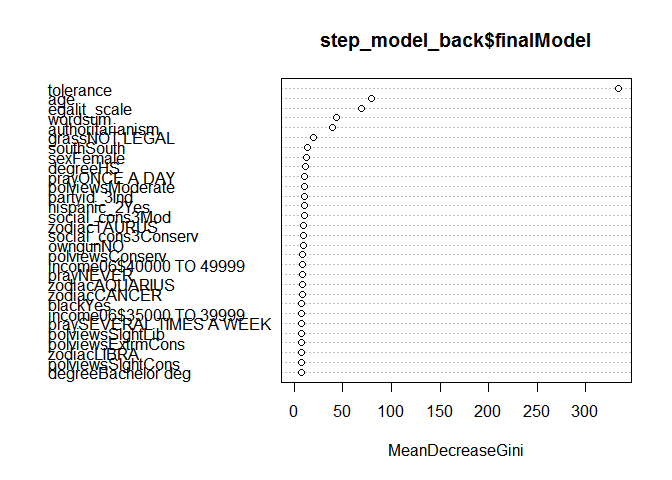
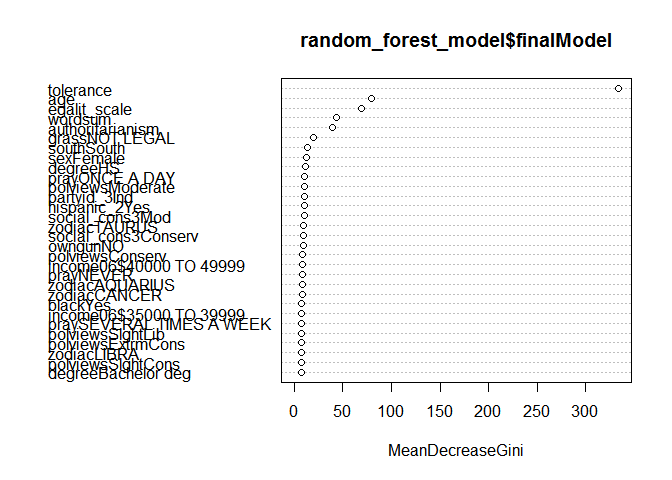
Finishing analysis and README.

Changed region(s): [[0.4375, 0.0625, 0.9375, 0.125]]

diff --git a/scorecard.md b/scorecard.md
@@ -7,65 +7,30 @@ Gustavo Arruda
 
 ``` r
 library(tidyverse)
-```
-
-    ## -- Attaching packages ---------------------------------------------------------------------------- tidyverse 1.3.0 --
-
-    ## v ggplot2 3.3.2     v purrr   0.3.4
-    ## v tibble  3.0.3     v dplyr   1.0.2
-    ## v tidyr   1.1.2     v stringr 1.4.0
-    ## v readr   1.3.1     v forcats 0.5.0
-
-    ## -- Conflicts ------------------------------------------------------------------------------- tidyverse_conflicts() --
-    ## x dplyr::filter() masks stats::filter()
-    ## x dplyr::lag()    masks stats::lag()
-
-``` r
 library(rcfss)
 library(leaps)
-```
-
-    ## Warning: package 'leaps' was built under R version 4.0.3
-
-``` r
 library(caret)
-```
-
-    ## Warning: package 'caret' was built under R version 4.0.3
-
-    ## Loading required package: lattice
-
-    ## 
-    ## Attaching package: 'caret'
-
-    ## The following object is masked from 'package:purrr':
-    ## 
-    ##     lift
-
-``` r
 library(ggplot2)
 library(knitr)
 library(broom)
 set.seed(1234)
 ```
 
+## Single Variable Model
+
 ``` r
-scorecard <- data.frame(scorecard)
 ggplot(scorecard, aes(cost, debt)) +
   geom_point() +
   geom_smooth(method = "lm")
 ```
 
-    ## `geom_smooth()` using formula 'y ~ x'
-
-    ## Warning: Removed 113 rows containing non-finite values (stat_smooth).
-
-    ## Warning: Removed 113 rows containing missing values (geom_point).
-
 ![](scorecard_files/figure-gfm/unnamed-chunk-2-1.png)<!-- -->
+
+## Multiple Variables Model
 
 ``` r
 scorecard_num <- select(scorecard, admrate:debt)
+#Limiting the model to numerical variables.
 
 # Source of help:
 #http://www.sthda.com/english/articles/37-model-selection-essentials-in-r/154-stepwise-regression-essentials-in-r/
@@ -74,21 +39,21 @@ scorecard_num <- select(scorecard, admrate:debt)
 train_control <- trainControl(method = "cv", number = 10)
 
 # Train the model
-step_model_back <- train(debt ~., data = scorecard_num,
+back_selection <- train(debt ~., data = scorecard_num,
                     method = "leapBackward", 
                     tuneGrid = data.frame(nvmax = 1:7),
                     trControl = train_control,
                     na.action = na.omit
                     )
 
-ggplot(step_model_back) +
+ggplot(back_selection) +
   labs(y = "Root Mean Squared Error (Cross-Validation)")
 ```
 
-![](scorecard_files/figure-gfm/unnamed-chunk-2-2.png)<!-- -->
+![](scorecard_files/figure-gfm/unnamed-chunk-3-1.png)<!-- -->
 
 ``` r
-summary(step_model_back$finalModel)
+summary(back_selection$finalModel)
 ```
 
     ## Subset selection object
@@ -124,6 +89,42 @@ kable(scorecard_model)
 | cost        |   1.225681e-01 |    0.0084482 |   14.508133 |   0e+00 |
 | comprate    |   1.106673e+04 | 1003.2377916 |   11.031015 |   0e+00 |
 | firstgen    | \-1.327550e+04 | 1433.0682752 |  \-9.263691 |   0e+00 |
+
+I used a backward variable selection algorithm to decide which variables
+to use in my multivariate linear model. In those kinds of algorithms we
+start using all variables, then iteratively test models by removing each
+variable at a time until the change is statistically significant. The
+issue with variable selection algorithms is that models might get
+overfitted to the training data set and perform significantly worse with
+subsequent testing data. To avoid overfitting I used a k-fold
+cross-validation algorithm. That method iteratively trains models with a
+random fraction of the data then tests them with the remaining data.
+
+The RMSE \~ Maximum Number of Predictors chart shows that the models
+with the least error given my parameters were the ones with 5 predictor
+variables. Under further examination, the model indicates that the best
+predictor variables are admrate, satavg, cost, comprate and firstgen. I
+included a table calculating their coefficients and standard error.
+
+The best predicting variable does seem to be cost followed by satavg,
+with relatively much lower standard errors. The costlier the cost of
+attendance, the highest the median student debt, which is somewhat
+self-explanatory. The average SAT admission score coefficient is more
+puzzling to me. The highest the SAT score, the lowest the student debt.
+My hunch here is that there is a confounding variable: the average
+social standing of the student body directly influences their ability to
+prepare for the SATs. Hence, a higher average SAT score would mean less
+need to take on debt. Following those in the order of increasing
+standard error, admissions rates have a comparatively higher positive
+coefficient with student debt. In this case, for profit colleges come to
+mind: the easiest it is to get into a college, the larger the
+probability of that given college being for profit which would lead to
+higher student debt. Subsequentially, completion rates have a positive
+coefficient and proportion of first generation student body have a
+negative coefficient with student debt, although they both have much
+higher standard error. Again, lower proportion of first generation
+students might have the confounding variable of average social standing
+of the student body with median student debt.
 
 ## Session info
 

diff --git a/gss-colrac.md b/gss-colrac.md
@@ -7,74 +7,12 @@ Gustavo Arruda
 
 ``` r
 library(tidyverse)
-```
-
-    ## -- Attaching packages ---------------------------------------------------------------------------- tidyverse 1.3.0 --
-
-    ## v ggplot2 3.3.2     v purrr   0.3.4
-    ## v tibble  3.0.3     v dplyr   1.0.2
-    ## v tidyr   1.1.2     v stringr 1.4.0
-    ## v readr   1.3.1     v forcats 0.5.0
-
-    ## -- Conflicts ------------------------------------------------------------------------------- tidyverse_conflicts() --
-    ## x dplyr::filter() masks stats::filter()
-    ## x dplyr::lag()    masks stats::lag()
-
-``` r
 library(rcfss)
 library(randomForest)
-```
-
-    ## Warning: package 'randomForest' was built under R version 4.0.3
-
-    ## randomForest 4.6-14
-
-    ## Type rfNews() to see new features/changes/bug fixes.
-
-    ## 
-    ## Attaching package: 'randomForest'
-
-    ## The following object is masked from 'package:dplyr':
-    ## 
-    ##     combine
-
-    ## The following object is masked from 'package:ggplot2':
-    ## 
-    ##     margin
-
-``` r
 library(knitr)
 library(caret)
-```
-
-    ## Warning: package 'caret' was built under R version 4.0.3
-
-    ## Loading required package: lattice
-
-    ## 
-    ## Attaching package: 'caret'
-
-    ## The following object is masked from 'package:purrr':
-    ## 
-    ##     lift
-
-``` r
 library(partykit)
-```
 
-    ## Warning: package 'partykit' was built under R version 4.0.3
-
-    ## Loading required package: grid
-
-    ## Loading required package: libcoin
-
-    ## Warning: package 'libcoin' was built under R version 4.0.3
-
-    ## Loading required package: mvtnorm
-
-    ## Warning: package 'mvtnorm' was built under R version 4.0.3
-
-``` r
 theme_set(theme_minimal())
 
 set.seed(1234)
@@ -91,23 +29,14 @@ gss_colrac_transformed <- gss_colrac %>%
 train_control <- trainControl(method = "oob")
 
 # Train the model
-step_model_back <- train(colrac ~., data = gss_colrac_transformed,
+random_forest_model <- train(colrac ~., data = gss_colrac_transformed,
                     method = "rf", 
                     ntree = 200,
                     trControl = train_control,
                     na.action = na.omit
                     )
 
-kable(step_model_back$finalModel$confusion)
-```
-
-|     |  NO | YES | class.error |
-| :-- | --: | --: | ----------: |
-| NO  | 850 | 156 |   0.1550696 |
-| YES | 309 | 659 |   0.3192149 |
-
-``` r
-step_model_back$finalModel
+random_forest_model$finalModel
 ```
 
     ## 
@@ -124,14 +53,12 @@ step_model_back$finalModel
     ## YES 309 659   0.3192149
 
 ``` r
-varImpPlot(step_model_back$finalModel)
+varImpPlot(random_forest_model$finalModel)
 ```
 
 ![](gss-colrac_files/figure-gfm/unnamed-chunk-1-1.png)<!-- -->
 
 ``` r
-#The chart shows that 'tolerance', 'age', 'egalit_scale', 'wordsum' and 'authoritarianism' are the most important predicting variables.
-
 colrac_selected <- ctree(colrac ~ tolerance + age + egalit_scale + wordsum + authoritarianism, data = gss_colrac_transformed)
 
 plot(colrac_selected,
@@ -144,6 +71,13 @@ plot(colrac_selected,
 ```
 
 ![](gss-colrac_files/figure-gfm/unnamed-chunk-1-2.png)<!-- -->
+
+I choose a random forest algorithm to build this model. Such algorithm
+iteratively select the best variables to construct a forest tree model,
+which does a good work to elicit relationships between categorical
+variables in a data set. The random\_forest\_model$finalModel chart
+shows that ‘tolerance’, ‘age’, ‘egalit\_scale’, ‘wordsum’ and
+‘authoritarianism’ are the most important predicting variables.
 
 ## Session info
 
@@ -198,7 +132,6 @@ devtools::session_info()
     ##  gower          0.2.2      2020-06-23 [1] CRAN (R 4.0.3)                
     ##  gtable         0.3.0      2019-03-25 [1] CRAN (R 4.0.2)                
     ##  haven          2.3.1      2020-06-01 [1] CRAN (R 4.0.2)                
-    ##  highr          0.8        2019-03-20 [1] CRAN (R 4.0.2)                
     ##  hms            0.5.3      2020-01-08 [1] CRAN (R 4.0.2)                
     ##  htmltools      0.5.0      2020-06-16 [1] CRAN (R 4.0.2)                
     ##  httr           1.4.2      2020-07-20 [1] CRAN (R 4.0.2)                
